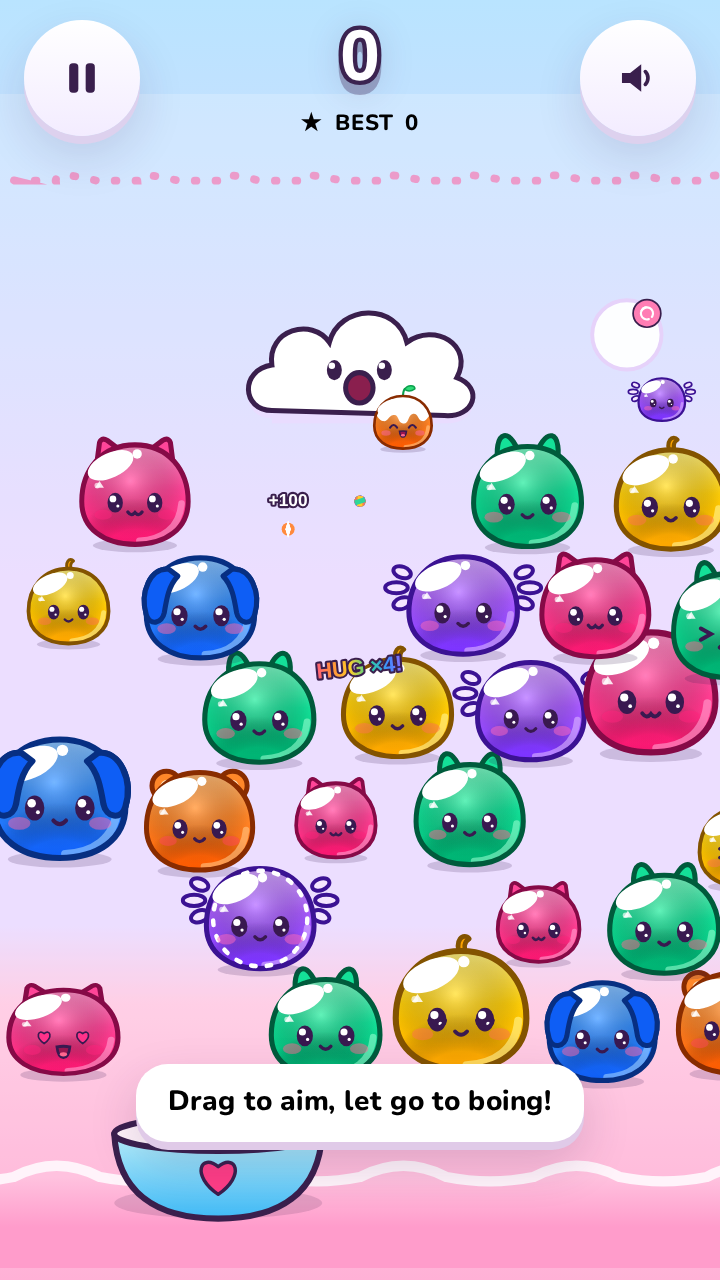
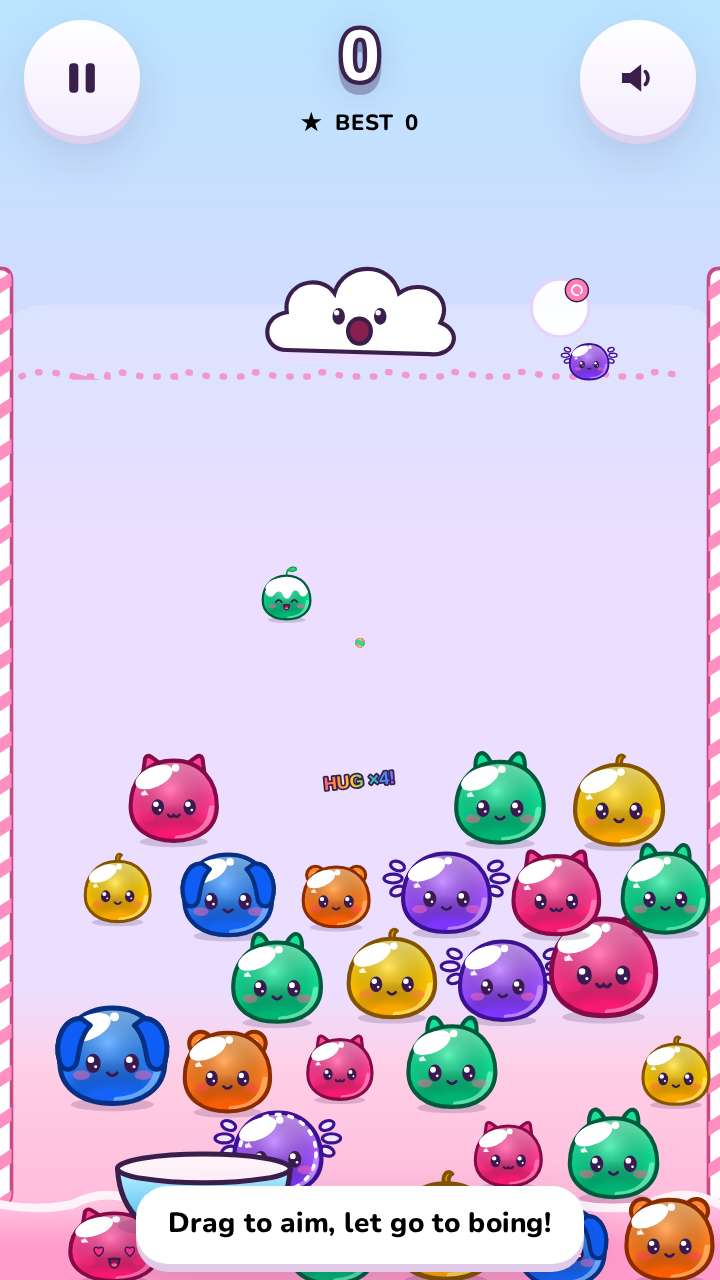
Fix Round 6 layout regression: min-scale play slice and geometry QA
- Revert portrait scaling to min(widthFit, heightFit) with bottom-pinned field
- Move Puff/Pip/Next above icing; restore stack depth via FIELD_FLOOR_Y
- Add play-geometry checks (walls, puff/next, tip vs bonbons) in layout tests
- Pin aim tip to milk band; landscape puff anchors; balance rise tuning (median ~63)

diff --git a/src/render/scene.ts b/src/render/scene.ts
@@ -20,6 +20,7 @@ export interface SceneDrawOpts {
   puffMouthO?: boolean;
   puffScale?: { x: number; y: number };
   aiming?: boolean;
+  landscape?: boolean;
 }
 
 export function drawSky(
@@ -87,7 +88,7 @@ export function drawField(
 
   for (const b of playBonbons) {
     const r = bonbonRadius(b.size);
-    const w = r * 2.02;
+    const w = r * 1.96;
     const expr: Expression =
       b.expr ??
       (b.asleep ? 'sleepy' : b.size === 's3' && b.type === 'chonk' ? 'sleepy' : 'idle');
@@ -126,9 +127,11 @@ export function drawField(
   ctx.restore();
 
   const ps = o.puffScale ?? { x: 1, y: 1 };
-  drawCloudBody(ctx, W.puffCloud.x, W.puffCloud.y, W.puffCloud.w, ps);
+  const puffY = puffAnchorY(!!o.landscape);
+  const pipY = pipAnchorY(!!o.landscape);
+  drawCloudBody(ctx, W.puffCloud.x, puffY, W.puffCloud.w, ps);
   if (o.pipInCloud !== false) {
-    drawBonbon(ctx, W.pipSpawn.x, W.pipSpawn.y, {
+    drawBonbon(ctx, W.pipSpawn.x, pipY, {
       pip: true,
       coat: o.pipCoat ?? 'berry',
       w: tokens.physics.pipRadiusU * 2.45,
@@ -137,7 +140,7 @@ export function drawField(
       sy: 1.04,
     });
   }
-  drawCloudFace(ctx, W.puffCloud.x, W.puffCloud.y, W.puffCloud.w, {
+  drawCloudFace(ctx, W.puffCloud.x, puffY, W.puffCloud.w, {
     mouthO: o.puffMouthO,
     sx: ps.x,
     sy: ps.y,
@@ -450,6 +453,14 @@ const VIEW_H_P =
 const VIEW_H_L =
   tokens.layout.seaSurfaceY + MILK_BAND_U - VIEW_TOP_L;
 
+export function puffAnchorY(landscape: boolean): number {
+  return landscape ? 400 : W.puffCloud.y;
+}
+
+export function pipAnchorY(landscape: boolean): number {
+  return landscape ? 458 : W.pipSpawn.y;
+}
+
 export function computeLayout(vw: number, vh: number) {
   const landscape = vw / vh > 1.15;
   const hudH = landscape ? 0 : Math.max(60, Math.min(76, vh * 0.08));
@@ -460,21 +471,19 @@ export function computeLayout(vw: number, vh: number) {
   const availH = vh - hudH - (landscape ? 0 : 6);
   const viewTop = landscape ? VIEW_TOP_L : VIEW_TOP;
   const viewH = landscape ? VIEW_H_L : VIEW_H_P;
-  let scale = landscape
-    ? Math.min(availW / W.worldW, availH / viewH)
-    : availH / viewH;
-  let fh = viewH * scale;
-  if (landscape && fh > availH) {
-    scale = availH / viewH;
-    fh = availH;
-  }
+  const widthFit = availW / W.worldW;
+  const heightFit = availH / viewH;
+  const scale = Math.min(widthFit, heightFit);
+  const fh = viewH * scale;
   const fw = W.worldW * scale;
-  const fx = (vw - fw) / 2;
-  const fy = landscape ? (vh - fh) / 2 : hudH;
+  const fx = sideW + (availW - fw) / 2;
+  const fieldY = landscape
+    ? (vh - fh) / 2 - viewTop * scale
+    : vh - (viewTop + viewH) * scale;
+  const fy = fieldY + viewTop * scale;
   const uiScale = landscape
     ? Math.max(1, Math.min(1.6, vh / 430))
     : Math.max(1, Math.min(1.2, vw / 430));
-  const fieldY = fy - viewTop * scale;
   return {
     landscape,
     hudH,
@@ -498,9 +507,10 @@ export function puffScreenRect(
   const L = computeLayout(vw, vh);
   const fieldY = L.fieldY ?? L.fy;
   const puff = W.puffCloud;
+  const py = puffAnchorY(L.landscape);
   const sc = L.scale;
   const cx = L.fx + puff.x * sc;
-  const cy = fieldY + (puff.y - puff.w * 0.28) * sc;
+  const cy = fieldY + (py - puff.w * 0.28) * sc;
   const ww = puff.w * sc;
   const hh = puff.w * 0.52 * sc;
   return {

diff --git a/src/ui/play-geometry.ts b/src/ui/play-geometry.ts
@@ -1,0 +1,88 @@
+import { tokens } from '../tokens';
+import { bonbonRadius } from '../sim/lattice';
+import { computeLayout, puffScreenRect } from '../render/scene';
+import type { GameApp } from '../game/app';
+
+const W = tokens.layout;
+const PITCH = W.lattice.rowPitch;
+
+function bonbonHalfW(size: import('../sim/types').Size): number {
+  return bonbonRadius(size) * 1.01;
+}
+
+export function checkPlayGeometry(app: GameApp): string[] {
+  const world = app.world;
+  if (!world || app.screen !== 'play') return [];
+  const vw = innerWidth;
+  const vh = innerHeight;
+  const L = computeLayout(vw, vh);
+  const fieldY = L.fieldY;
+  const sc = L.scale;
+  const fx = L.fx;
+  const leftWall = fx + W.walls.leftX * sc;
+  const rightWall = fx + W.walls.rightX * sc;
+  const v: string[] = [];
+
+  for (const b of world.living()) {
+    if (b.popped || b.falling) continue;
+    const hw = bonbonHalfW(b.size) * sc;
+    const sx = fx + b.x * sc;
+    if (sx - hw < leftWall + 1) v.push(`bonbon:${b.id}:left-wall`);
+    if (sx + hw > rightWall - 1) v.push(`bonbon:${b.id}:right-wall`);
+  }
+
+  const puff = puffScreenRect(vw, vh);
+  if (!L.landscape) {
+    if (puff.left < -2 || puff.right > vw + 2 || puff.top < L.hudH - 4) {
+      v.push('puff:offscreen');
+    }
+  } else if (puff.top < 0 || puff.bottom > vh + 2) {
+    v.push('puff:offscreen');
+  }
+
+  if (!L.landscape) {
+    const nb = W.nextBubblePortrait;
+    const ncx = fx + nb.x * sc;
+    const nr = nb.r * sc;
+    if (ncx + nr > rightWall - 3) v.push('next:right-wall');
+    if (ncx + nr > vw - 2) v.push('next:offscreen');
+    if (ncx - nr < leftWall + 3) v.push('next:left-wall');
+  }
+
+  const cupBandTop = W.seaSurfaceY - PITCH * 0.35;
+  const tip = document.querySelector('.tip-milk');
+  if (tip && world.shots === 0) {
+    const tr = tip.getBoundingClientRect();
+    if (tr.width > 0) {
+      for (const b of world.living()) {
+        if (b.falling) continue;
+        if (b.y > cupBandTop - bonbonRadius(b.size) * 0.5) continue;
+        const hw = bonbonHalfW(b.size) * sc;
+        const sy = fieldY + b.y * sc;
+        const sx = fx + b.x * sc;
+        const ix =
+          Math.min(tr.right, sx + hw) - Math.max(tr.left, sx - hw);
+        const iy =
+          Math.min(tr.bottom, sy + hw) - Math.max(tr.top, sy - hw);
+        if (ix > 2 && iy > 2) v.push('tip:bonbon-overlap');
+      }
+    }
+  }
+
+  const icingWorld = W.frostingY;
+  let topBonbonY = Infinity;
+  for (const b of world.living()) {
+    if (!b.falling) topBonbonY = Math.min(topBonbonY, b.y - bonbonRadius(b.size));
+  }
+  if (!L.landscape) {
+    const puffBottom = puff.bottom;
+    const topRowScreen = fieldY + topBonbonY * sc;
+    if (topRowScreen < puffBottom + 6) v.push('field:top-row-under-puff');
+
+    const icingScreen = fieldY + icingWorld * sc;
+    if (icingScreen < puffBottom + 6) v.push('icing:under-puff');
+    if (topRowScreen < icingScreen + 10) v.push('field:top-row-under-icing');
+  }
+
+  return [...new Set(v)];
+}

diff --git a/src/ui/overlap.ts b/src/ui/overlap.ts
@@ -1,4 +1,6 @@
 import { puffScreenRect } from '../render/scene';
+import { checkPlayGeometry } from './play-geometry';
+import type { GameApp } from '../game/app';
 
 function intersects(
   a: { left: number; top: number; right: number; bottom: number },
@@ -90,6 +92,12 @@ export function installOverlapChecker(): void {
       .map((x) => `offscreen:${x.n}`);
     return { overlaps: bad, offscreen: off };
   };
+
+  window.__checkPlayGeometry = () => {
+    const app = window.__bbApp;
+    if (!app) return { violations: [] as string[] };
+    return { violations: checkPlayGeometry(app) };
+  };
 }
 
 declare global {
@@ -104,5 +112,7 @@ declare global {
     };
     __ready?: boolean;
     __uiScale?: () => number;
+    __bbApp?: GameApp;
+    __checkPlayGeometry?: () => { violations: string[] };
   }
 }

diff --git a/qa/layout.spec.ts b/qa/layout.spec.ts
@@ -61,6 +61,15 @@ for (const [w, h] of viewports) {
         });
         expect(check.overlaps, JSON.stringify(check)).toEqual([]);
         expect(check.offscreen).toEqual([]);
+        if (screen === 'play' || screen === 'combo') {
+          const geo = await page.evaluate(() => {
+            const w = window as unknown as {
+              __checkPlayGeometry?: () => { violations: string[] };
+            };
+            return w.__checkPlayGeometry?.() ?? { violations: [] };
+          });
+          expect(geo.violations, JSON.stringify(geo)).toEqual([]);
+        }
         const blank = await page.evaluate(() => {
           const c = document.getElementById('field') as HTMLCanvasElement | null;
           if (!c) return true;

diff --git a/src/tokens.css b/src/tokens.css
@@ -420,12 +420,12 @@
   --bb-layout-lattice-jitter-y: 6;
   --bb-layout-lattice-neighbours: "6 hex-lattice neighbours (same row +/-1 slot, rows above/below the two diagonal slots)";
   --bb-layout-puff-cloud-x: 500;
-  --bb-layout-puff-cloud-y: 522;
+  --bb-layout-puff-cloud-y: 220;
   --bb-layout-puff-cloud-w: 290;
   --bb-layout-pip-spawn-x: 500;
-  --bb-layout-pip-spawn-y: 586;
-  --bb-layout-next-bubble-portrait-x: 808;
-  --bb-layout-next-bubble-portrait-y: 508;
+  --bb-layout-pip-spawn-y: 278;
+  --bb-layout-next-bubble-portrait-x: 778;
+  --bb-layout-next-bubble-portrait-y: 235;
   --bb-layout-next-bubble-portrait-r: 40;
   --bb-layout-frosting-y: 330;
   --bb-layout-sea-surface-y: 1480;

diff --git a/src/ui/screens.ts b/src/ui/screens.ts
@@ -233,9 +233,8 @@ export function renderSettingsHud(root: HTMLElement, s: Settings): void {
 
 export function renderTip(root: HTMLElement, text: string): void {
   const L = computeLayout(innerWidth, innerHeight);
-  const milkY =
-    L.fy + (tokens.layout.seaSurfaceY - L.viewTop) * L.scale - 6;
-  const bottom = Math.max(10, innerHeight - milkY + 12);
+  const sliceBottom = L.fieldY + (L.viewTop + L.viewH) * L.scale;
+  const bottom = Math.max(6, innerHeight - sliceBottom + 8);
   root.insertAdjacentHTML(
     'beforeend',
     `<div class="ui ui-abs tip-milk" style="left:50%;bottom:${bottom}px;transform:translateX(-50%)">${text}</div>`,

diff --git a/src/game/app.ts b/src/game/app.ts
@@ -606,6 +606,7 @@ export class GameApp {
       puffScale: this.puffScale,
       aiming: this.aiming,
       hideNextBubble: L.landscape,
+      landscape: L.landscape,
     });
     for (const id of [...this.rings.keys()]) {
       if (!this.world.living().some((b) => b.id === id)) this.rings.delete(id);
@@ -705,5 +706,6 @@ declare global {
   interface Window {
     __ready?: boolean;
     __bbApp?: GameApp;
+    __checkPlayGeometry?: () => { violations: string[] };
   }
 }

diff --git a/src/game/world.ts b/src/game/world.ts
@@ -236,10 +236,8 @@ export class GameWorld {
 
   wouldRiseAtShot(shots: number): boolean {
     if (this.mode !== 'rise') return true;
-    if (shots <= 15) return false;
-    if (shots <= 40) return shots % 3 === 0;
-    if (shots <= 58) return shots % 3 === 0;
-    if (shots <= 80) return shots % 2 === 0;
+    if (shots <= 18) return false;
+    if (shots <= 36) return shots % 2 === 0;
     return true;
   }
 

diff --git a/src/sim/lattice.ts b/src/sim/lattice.ts
@@ -168,7 +168,7 @@ const CAST_ROW: Flavour[][] = [
 const START_ROWS = 6;
 /** First row sits below icing + bounce room under Puff/Pip. */
 const FIELD_CEILING_Y = tokens.layout.frostingY + PITCH * 4.15;
-const FIELD_FLOOR_Y = tokens.layout.seaSurfaceY - PITCH * 2.15;
+const FIELD_FLOOR_Y = tokens.layout.seaSurfaceY - PITCH * 0.32;
 
 export function initialRiseField(
   seed: string,

diff --git a/src/tokens.ts b/src/tokens.ts
@@ -766,16 +766,16 @@ export const tokens = {
     },
     "puffCloud": {
       "x": 500,
-      "y": 522,
+      "y": 220,
       "w": 290
     },
     "pipSpawn": {
       "x": 500,
-      "y": 586
+      "y": 278
     },
     "nextBubblePortrait": {
-      "x": 808,
-      "y": 508,
+      "x": 778,
+      "y": 235,
       "r": 40
     },
     "frostingY": 330,

diff --git a/docs/balance.md b/docs/balance.md
@@ -6,8 +6,8 @@ Includes **rise + refill** after each shot (unless cup catch).
 
 | bot | median shots | p25 | p75 |
 |---|---:|---:|---:|
-| random aim | 88.0 | 42 | 95 |
-| greedy (64 angles) | 48.0 | 39 | 87 |
+| random aim | 63.0 | 55 | 79 |
+| greedy (64 angles) | 126.0 | 81 | 210 |
 
 GDD target: random median 35–60 shots; greedy > 150 shots.
 
